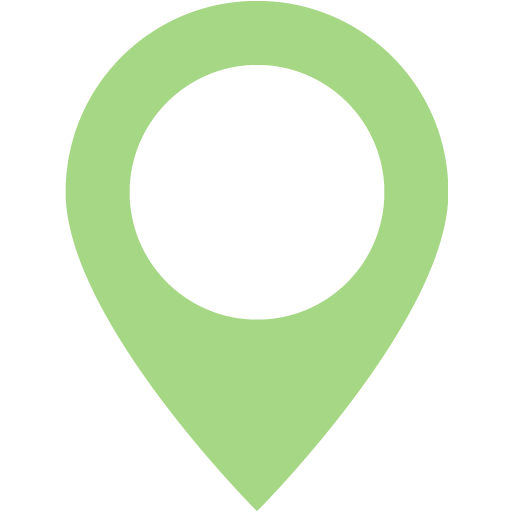
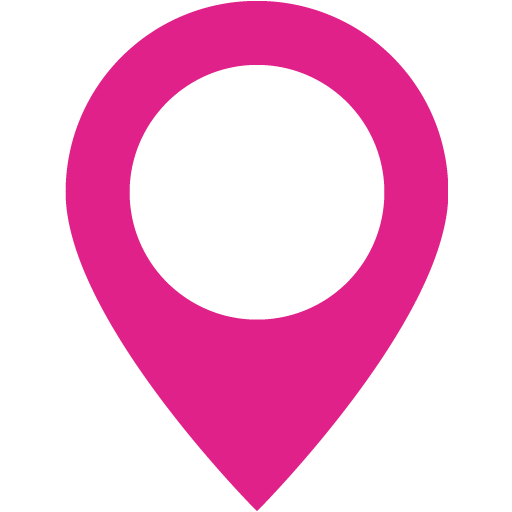
changed alert color

diff --git a/CinqueTi/src/main/resources/static/js/app/app-chat.js b/CinqueTi/src/main/resources/static/js/app/app-chat.js
@@ -24,7 +24,7 @@ app.controller('chatCtrl', ['$scope', '$location', '$interval', 'ChatSocket', '$
             },
             legend: {
                 position: 'bottomright',
-                colors: ['#ff9900', '#a6d785', '#cc0000','#4169e1'],
+                colors: ['#ff9900', '#ff00bf', '#cc0000','#4169e1'],
                 labels: ['Cantiere','Incidente','Incendio','Altro']
             },
             markers: [],
@@ -470,6 +470,7 @@ app.controller('chatCtrl', ['$scope', '$location', '$interval', 'ChatSocket', '$
         initStompClient();
 
         $scope.$on("$locationChangeStart", function () {
+            // closing websocket
             chatSocket.close();
         })
     }]);
